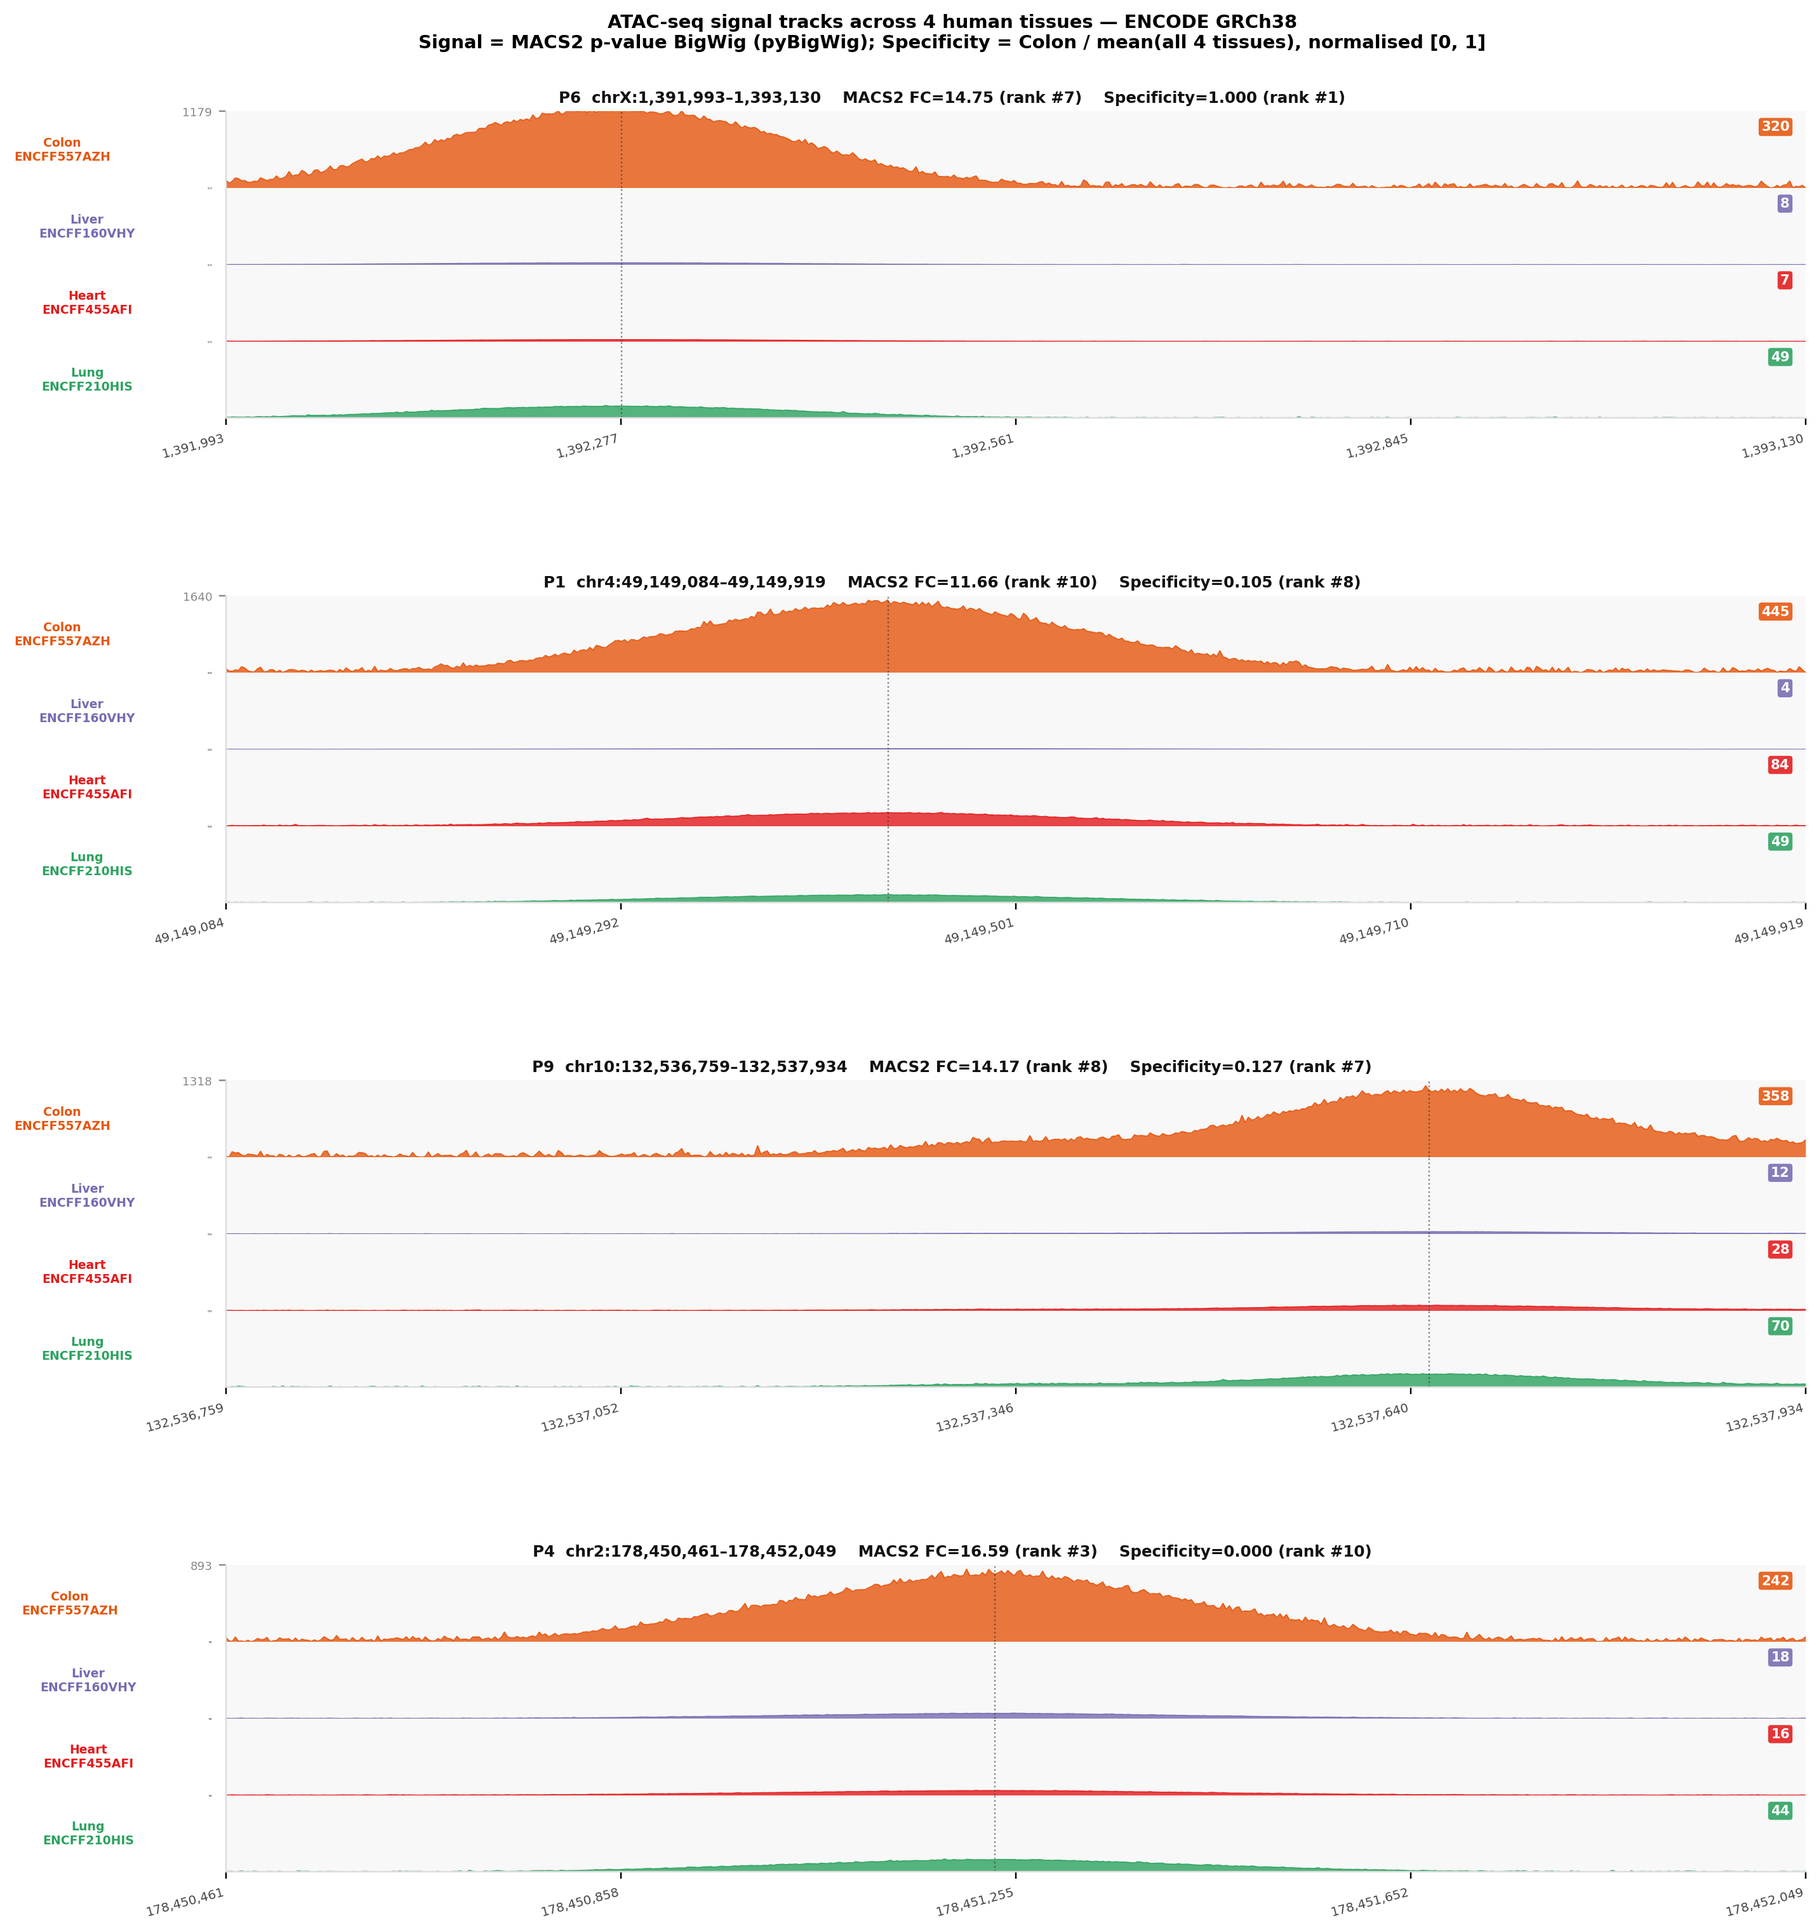
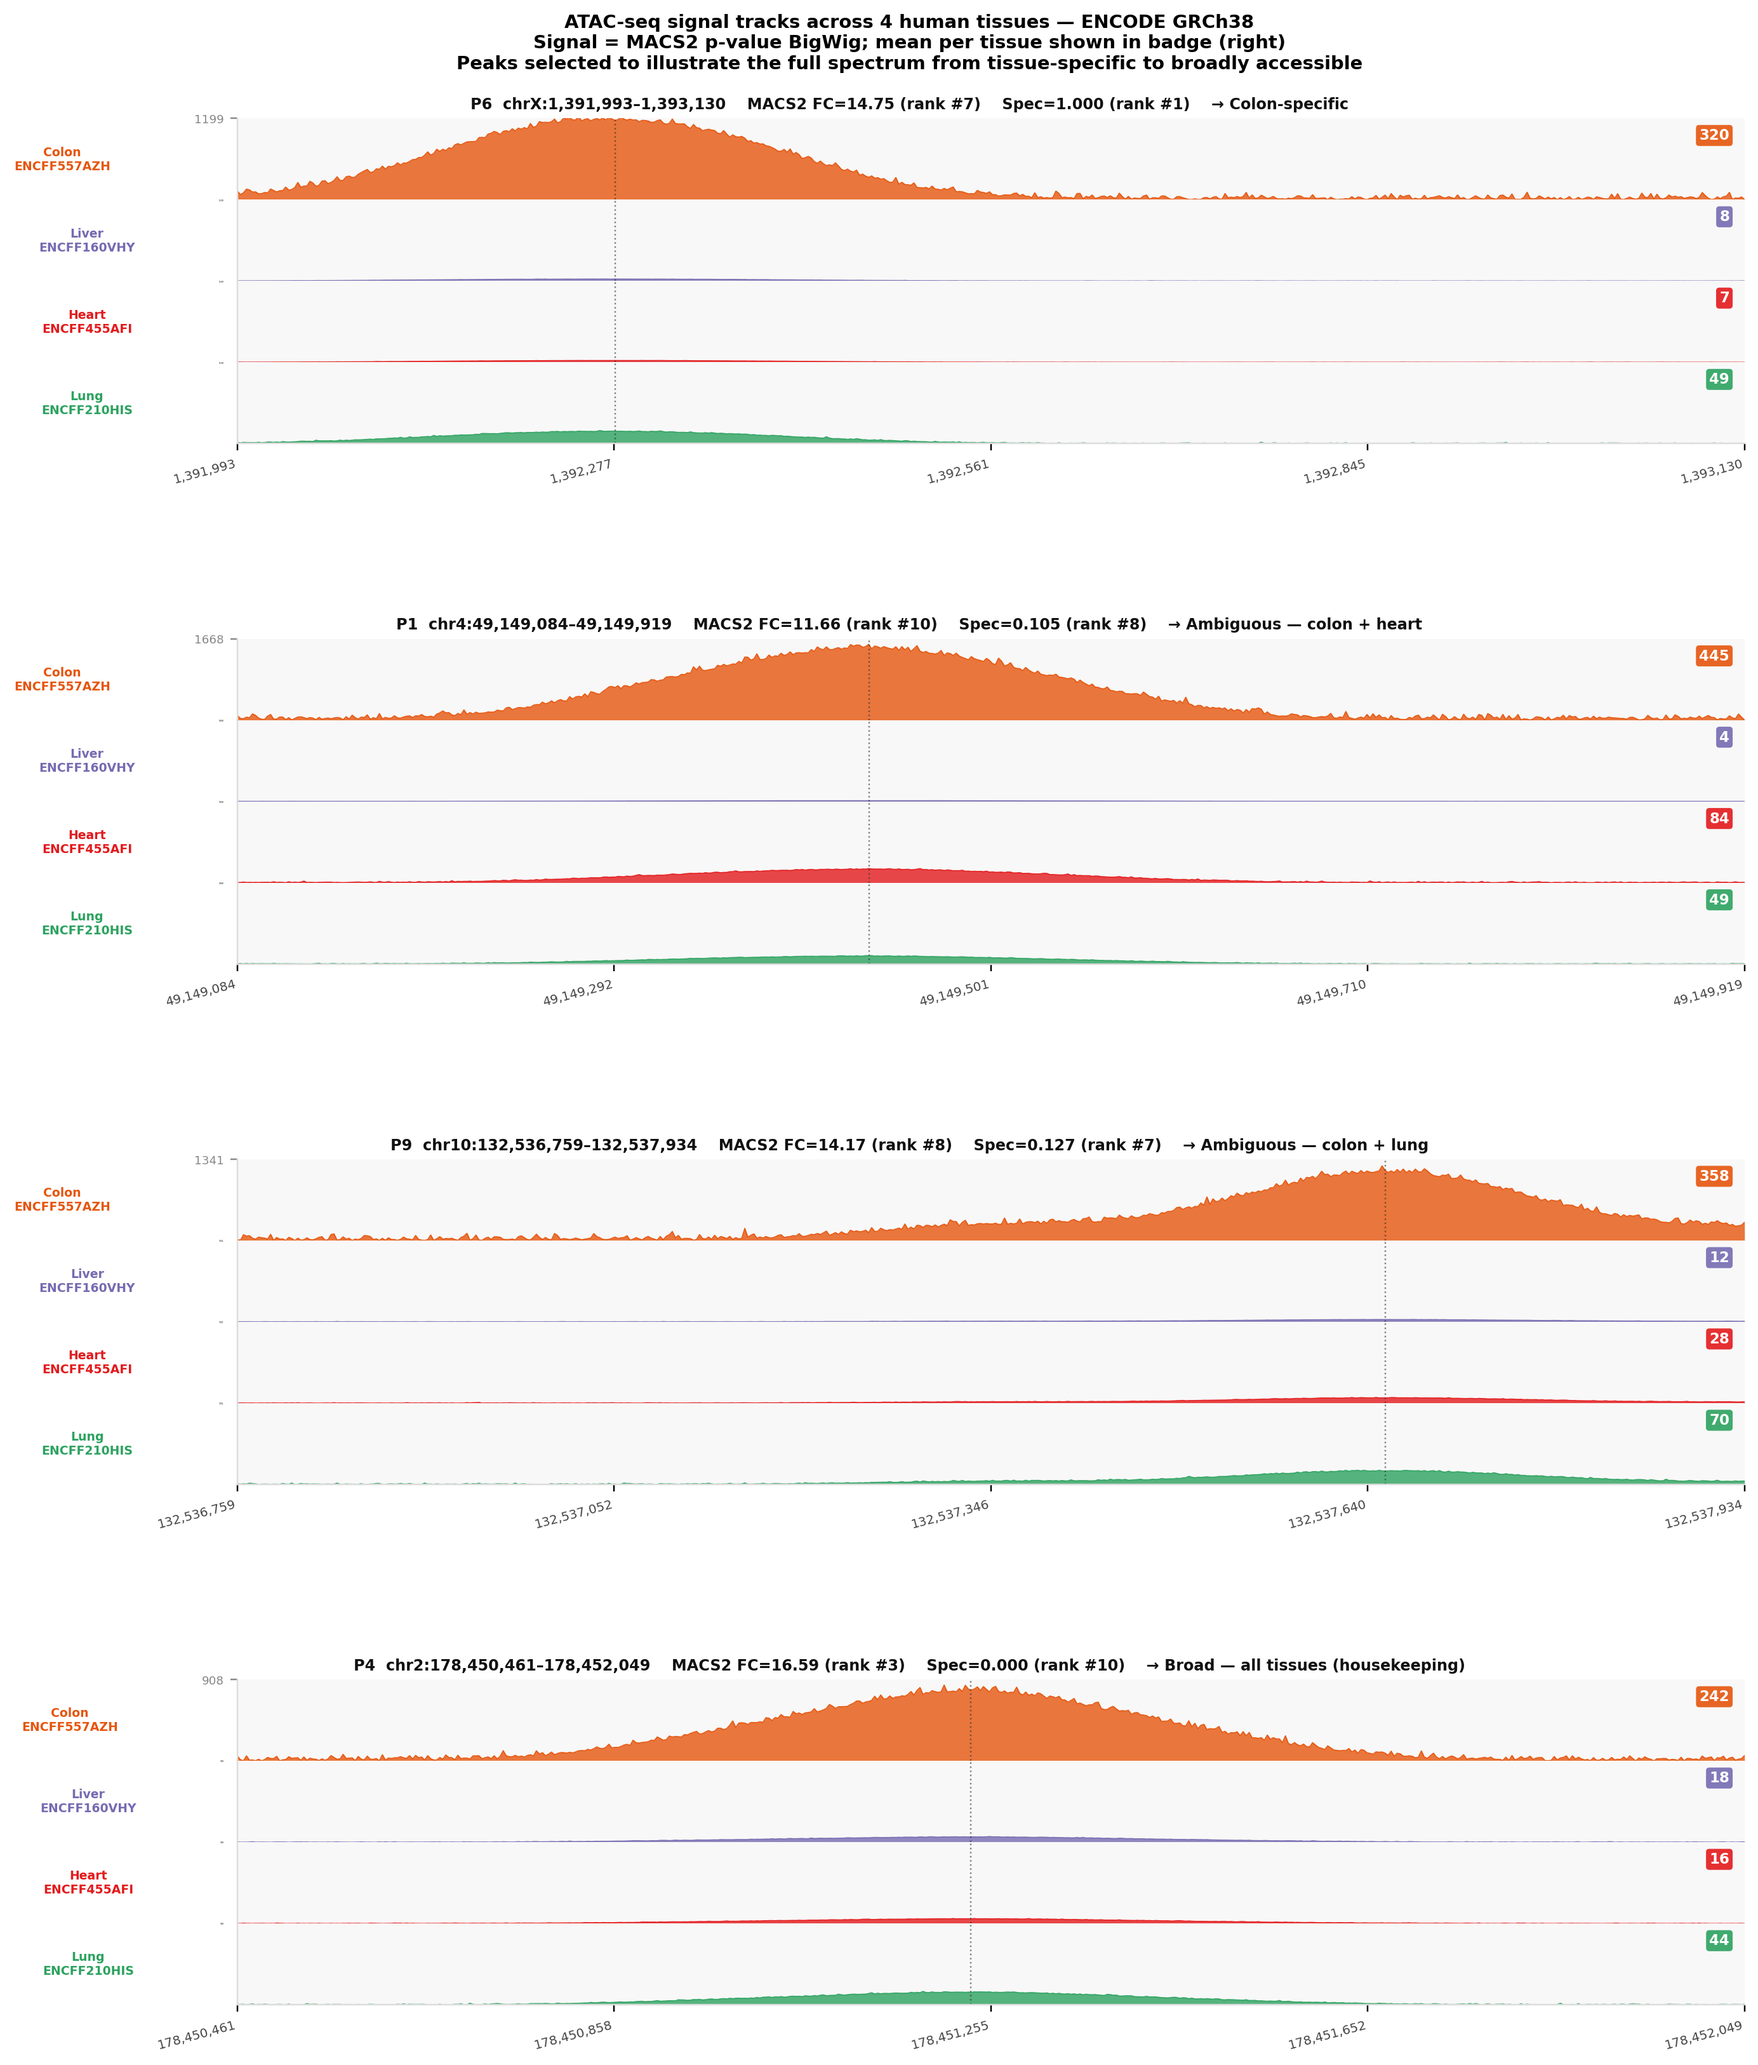
Add speed note, better ambiguous peaks in figure, feature intuition in body text

diff --git a/paper/paper.md b/paper/paper.md
@@ -39,8 +39,8 @@ matrix — covering BigWig signal summaries, GC content, PhyloP conservation sco
 distribution moments, and ATAC specificity rankings — that can be used for
 downstream statistical analysis, ranking, or machine learning applications. By
 separating deterministic feature generation from user defined ranking logic,
-PyPeakRankR promotes transparency, modularity, and reproducibility in regulatory
-element analysis.
+PyPeakRankR promotes transparency, modularity, and reproducibility. It runs
+in minutes on thousands of peaks, making it a practical first-pass before downstream modelling.
 
 # Statement of need
 
@@ -50,10 +50,9 @@ higher-order signal statistics. These features are typically computed using
 custom per project scripts that vary across laboratories, complicating
 benchmarking and cross-study integration.
 
-The target audience is computational biologists and genomics researchers who
-work with scATAC-seq or bulk ATAC-seq data and need to systematically prioritize
-peaks for experimental follow-up — particularly for enhancer discovery, AAV tool
-design, or regulatory element ranking across cell types or species.
+The target audience is computational biologists who work with scATAC-seq or
+bulk ATAC-seq data and need to systematically prioritize peaks for experimental
+follow-up, particularly for enhancer discovery or AAV tool design.
 
 Existing tools address related but distinct problems: peak callers such as
 MACS2 [@Zhang2008] identify open chromatin regions but rank peaks only by
@@ -77,10 +76,9 @@ but does not produce portable, tool agnostic feature tables. `pyfaidx`
 [@Shirley2015] enables FASTA sequence access but provides no genomics feature
 pipeline.
 
-PyPeakRankR fills this gap by composing these libraries — `pyBigWig` for
-signal extraction, `pyfaidx` for sequence access, `scipy` [@Virtanen2020]
-for distribution metrics — into a composable CLI pipeline that assembles
-heterogeneous features into a single reproducible TSV table.
+PyPeakRankR fills this gap by composing `pyBigWig`, `pyfaidx`, and
+`scipy` [@Virtanen2020] into a CLI pipeline that assembles heterogeneous
+features into a single reproducible TSV table.
 
 # Software design
 
@@ -89,8 +87,9 @@ PyPeakRankR is built around three core design decisions:
 **1. Table-first, composable pipeline.** Every subcommand reads an existing TSV
 and appends columns without modifying the peak coordinates. This means a user
 can run any subset of steps, add custom columns from other tools, and the table
-remains valid throughout. The alternative . A monolithic script requires users to rerun everything when adding
-a new feature type. The table-first design enables incremental extension.
+remains valid throughout. A monolithic script that computes all features at once requires users to rerun
+everything when adding a new feature type. The table-first design enables
+incremental extension.
 
 **2. Separation of feature extraction from ranking.** Feature extraction is
 deterministic: given the same inputs and the same BigWig files, the same table
@@ -105,27 +104,26 @@ public Python function (`init_table`, `add_signal`, `add_gc`, `add_phylop`,
 in shell pipelines and in Python notebooks or workflows, without reimplementing
 logic.
 
-The specificity ranking formula is: for each peak, compute the ratio of the
-target group's signal to the mean signal across all background groups, then
-min-max normalise to [0, 1] across all peaks. This definition matches the CERP
-pipeline used in [@Wirthlin2026] and is consistent with the ATAC-specificity
-metric validated in the BICCN challenge [@Johansen2025].
+The specificity ranking formula computes the ratio of target group signal to
+mean background signal, then min-max normalises to [0, 1]. This matches the
+CERP pipeline [@Wirthlin2026] and the ATAC-specificity metric validated in
+the BICCN challenge [@Johansen2025].
 
-The table-first design is directly extensible: future columns could include
-sequence model importance scores (e.g., from Borzoi or Enformer) or spatially
-resolved specificity scores from MERFISH or other spatial transcriptomics
-data, integrating epigenomic and spatial context in one reproducible matrix.
+Each feature has a distinct biological rationale. GC content is lower in active
+enhancers than in promoters or bulk genomic DNA, reflecting differences in
+nucleosome occupancy. PhyloP conservation [@Pollard2010] identifies peaks under
+cross-species purifying selection. Signal distribution moments — kurtosis
+(sharpness), skewness (asymmetry), and bimodality (Sarle's coefficient) — are
+motivated by Lu et al. [@Lu2015], who showed these shape features distinguish
+enhancers from promoters in ChIP-seq data more reliably than signal intensity
+alone. The table-first design is directly extensible: future columns could
+include sequence model importance scores (e.g., from Borzoi or Enformer) or
+spatially resolved scores from MERFISH, integrating epigenomic and spatial
+context in one reproducible matrix.
 
-Figure 1 illustrates the features collected by PyPeakRankR for each candidate
-peak.
-
-![Features collected by PyPeakRankR. GC content is lower in active enhancers
-than in promoters or bulk DNA, reflecting differences in nucleosome occupancy.
-PhyloP scores [@Pollard2010] quantify cross-species constraint. ATAC specificity
-captures differential accessibility between cell groups. Kurtosis, skewness,
-and bimodality (Sarle's coefficient) describe signal shape — inspired by Lu et
-al. [@Lu2015], who showed these moments distinguish enhancers from promoters
-in ChIP-seq data. Figure adapted from Wirthlin et al.
+![Features collected by PyPeakRankR for each candidate peak: GC content,
+PhyloP conservation, ATAC specificity, and signal distribution moments
+(kurtosis, skewness, bimodality). Figure adapted from Wirthlin et al.
 (2026) [@Wirthlin2026].](figure6_panelA.png)
 
 # Ranking vs. MACS2 fold change
@@ -141,22 +139,23 @@ liver (ENCFF160VHY, ENCSR802GEV), heart left ventricle
 (ENCFF455AFI, ENCSR117PYB), and lung (ENCFF210HIS, ENCSR647AOY).
 Signal was extracted using PyPeakRankR's `add-signal` command.
 Specificity scores (colon / mean across tissues, normalised [0, 1])
-diverge substantially from MACS2 fold change ranks. P6 (chrX,
-FC=14.7, rank #7) achieves the highest specificity (1.000) with colon
-mean=320 versus liver=7.6 and heart=7.1. P4 (chr2, FC=16.6, rank #3)
-scores lowest (0.000) with signal spread across all tissues. P1
-(chr4) is ambiguous: high colon signal but substantial heart
-signal (mean=83.8). Table 1 lists all ten peaks.
+diverge substantially from MACS2 fold change ranks (Figure 2, Table 1).
+The four peaks shown span the full spectrum: P6 (rank #7 by FC) is the
+most colon-specific (Spec=1.00); P1 (rank #10 by FC, lowest in the set)
+is ambiguous with both colon and heart active; P9 shows a colon-plus-lung
+pattern; and P4 (rank #3 by FC) is the broadest, with signal spread
+across all four tissues and the lowest specificity score (0.000).
 
-![ATAC-seq signal tracks for four peaks across colonic mucosa (orange),
-liver (purple), heart left ventricle (red), and lung (green). Signal
-is the MACS2 p-value BigWig extracted by PyPeakRankR from four ENCODE
-GRCh38 tracks. Mean signal per tissue is shown in the coloured badge
-(right). Dashed lines mark MACS2 summits. The four peaks illustrate
-distinct accessibility patterns: P6 (colon-specific, Spec=1.00), P1
-(ambiguous — colon and heart both active, Spec=0.11), P9
-(colon and lung, Spec=0.13), and P4 (broadly accessible across all
-tissues, Spec=0.00, MACS2 rank #3).](browser_tracks_comparison.png)
+![ATAC-seq signal tracks across four human tissues for peaks spanning the
+full specificity spectrum. Mean MACS2 p-value signal per tissue is shown
+in the coloured badge (right); dashed lines mark MACS2 summits. P6
+(Spec=1.00) is colon-specific with liver and heart near background. P1
+(Spec=0.11) is ambiguous — both colon (mean=445) and heart (mean=84)
+are active despite P1 having the lowest MACS2 fold change in the set.
+P9 (Spec=0.13) shows a distinct colon-plus-lung pattern (lung mean=70).
+P4 (Spec=0.00, MACS2 rank #3) is broadly accessible across all four
+tissues, illustrating that high fold change does not imply tissue
+specificity.](browser_tracks_comparison.png)
 
 
 | Peak | Coordinates (GRCh38) | FC | FC rank | Colon | Liver | Heart | Lung | Spec | Spec rank |
@@ -199,8 +198,7 @@ outperformed conventional fold-change approaches, and the resulting
 enhancer-AAV tools achieved >70% on-target specificity across cell types,
 with exemplary enhancers exceeding 90%.
 
-These applications demonstrate that PyPeakRankR's feature extraction produces
-rankings with direct experimental utility across species and brain regions.
+These results establish direct experimental utility.
 
 # Implementation
 
@@ -208,8 +206,8 @@ PyPeakRankR is implemented in Python (>=3.9) with the following dependencies:
 `pandas` [@Reback2020] for tabular data handling, `numpy` [@Harris2020] for
 numerical computation, `pyBigWig` [@Ramirez2020pyBigWig] for BigWig signal extraction,
 `pyfaidx` [@Shirley2015] for FASTA sequence access, and `scipy` [@Virtanen2020]
-for statistical distribution metrics. The package is installable via pip from GitHub, includes a `pypeakranker`
-CLI, unit tests, and example data (`tests/test.bed`). Source code:
+for statistical distribution metrics. Installable via pip from GitHub; includes a `pypeakranker` CLI, unit tests,
+and example data (`tests/test.bed`). Source:
 <https://github.com/AllenInstitute/PeakRankR/tree/python-package> (MIT).
 
 # AI usage disclosure
